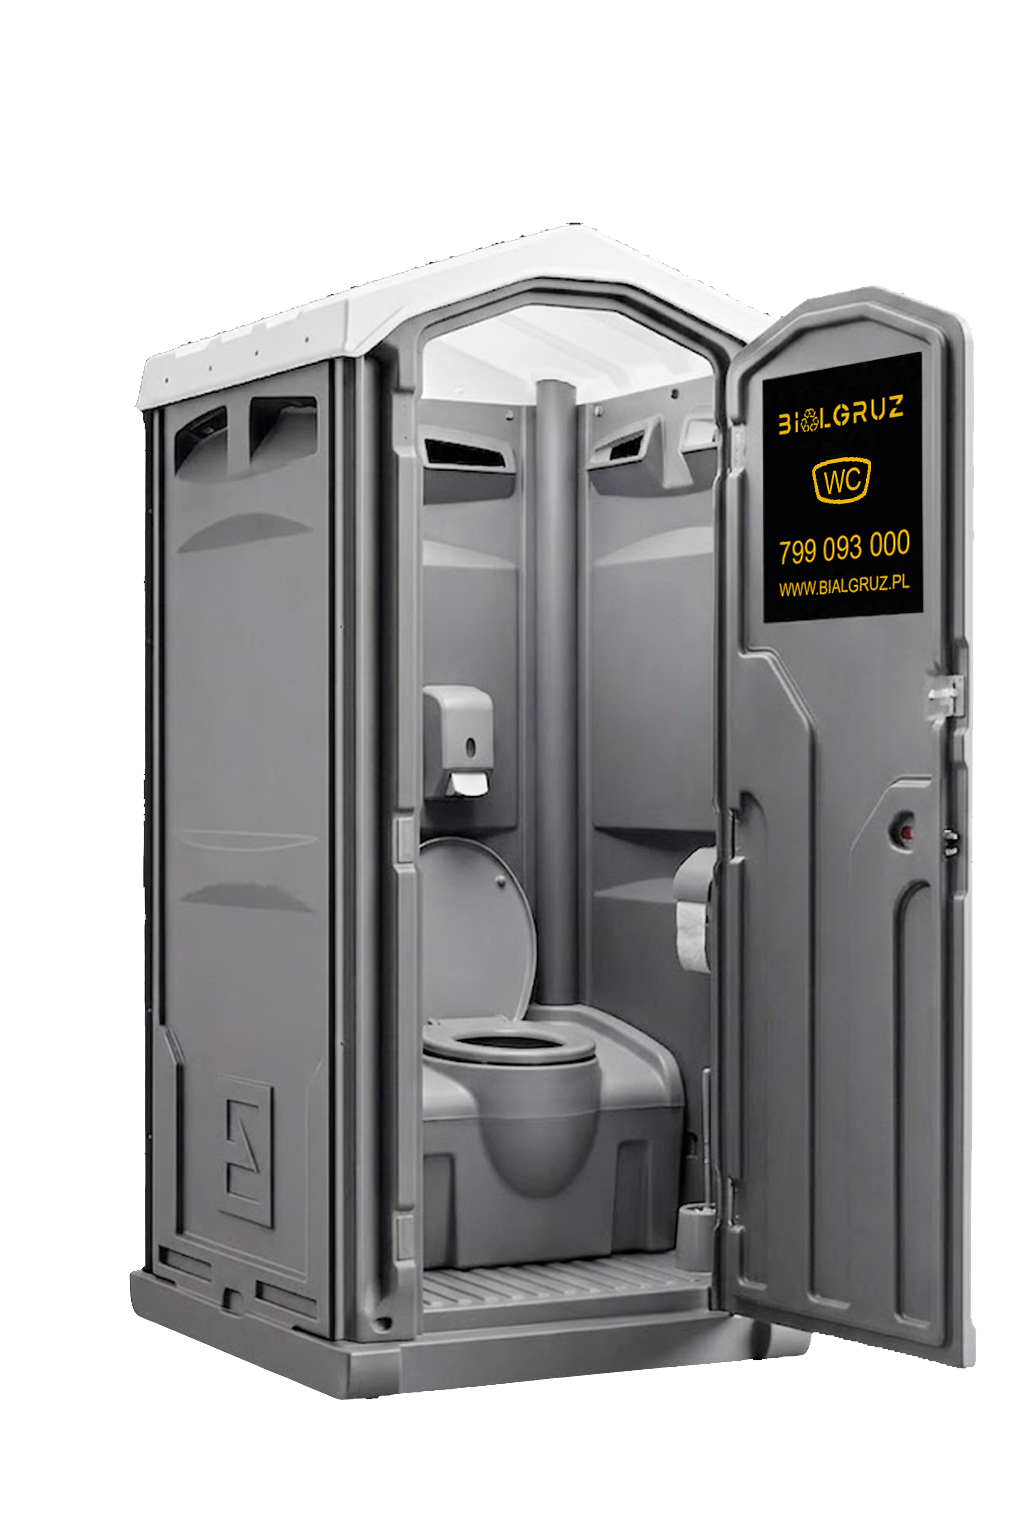
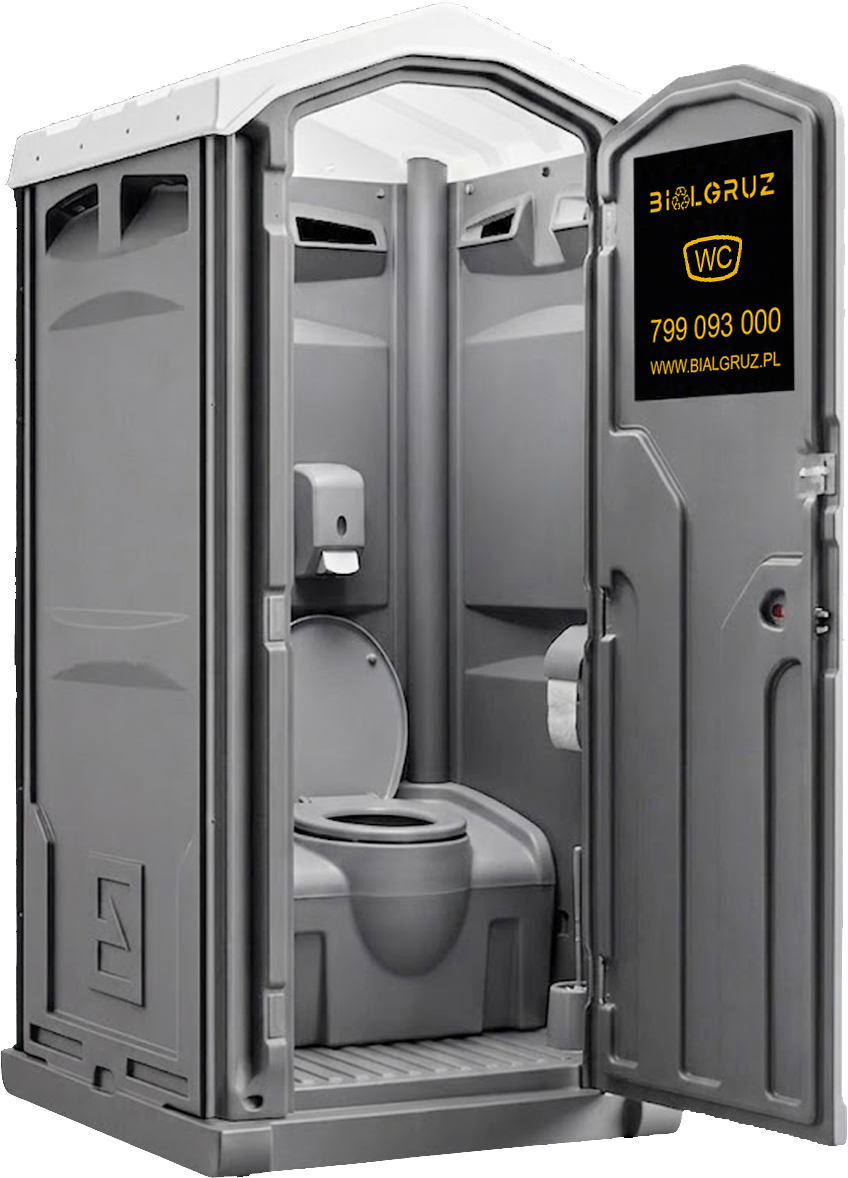
hover na zdjeciu w sekcji Dlaczego my na podstronie toalet - zmiana na otwarta toalete

diff --git a/app/toalety-przenosne/page.jsx b/app/toalety-przenosne/page.jsx
@@ -79,7 +79,7 @@ export default function ToaletyPage() {
             { title: "Czystość i higiena", text: "Każda kabina jest myta i dezynfekowana przed wynajmem. Dbamy o komfort Twoich pracowników i gości." },
             { title: "Elastyczne pakiety", text: "Wynajmiesz toaletę na 7 dni lub na dłuższy okres — z wyposażeniem dopasowanym do Twoich potrzeb." },
           ]}
-          image={{ src: "/toaleta-bialgruz.png", alt: "Toaleta przenośna BIALGRUZ" }}
+          image={{ src: "/toaleta-bialgruz.png", alt: "Toaleta przenośna BIALGRUZ", hoverSrc: "/kibel-otwarty.png" }}
         />
 
         <StepsSection
